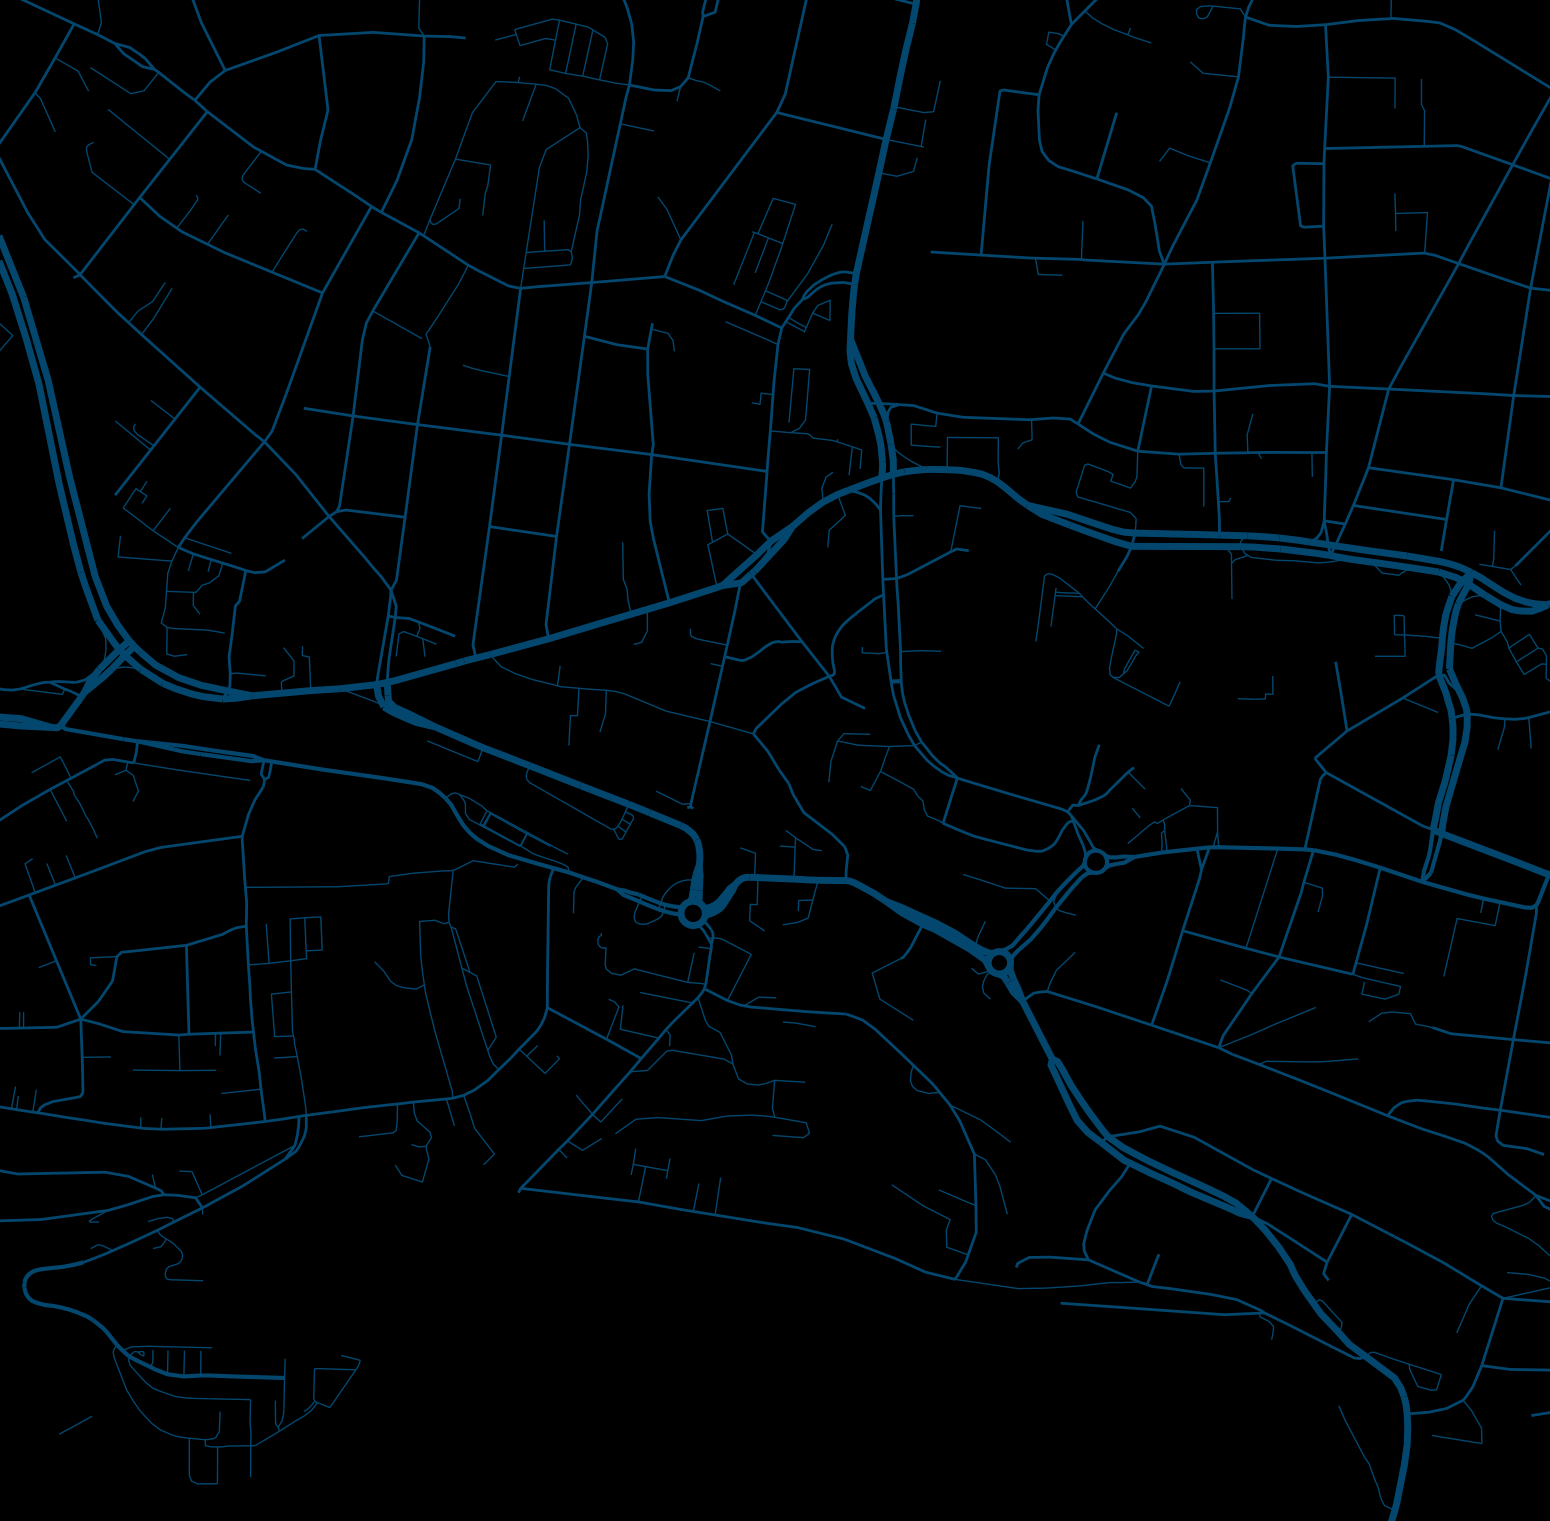
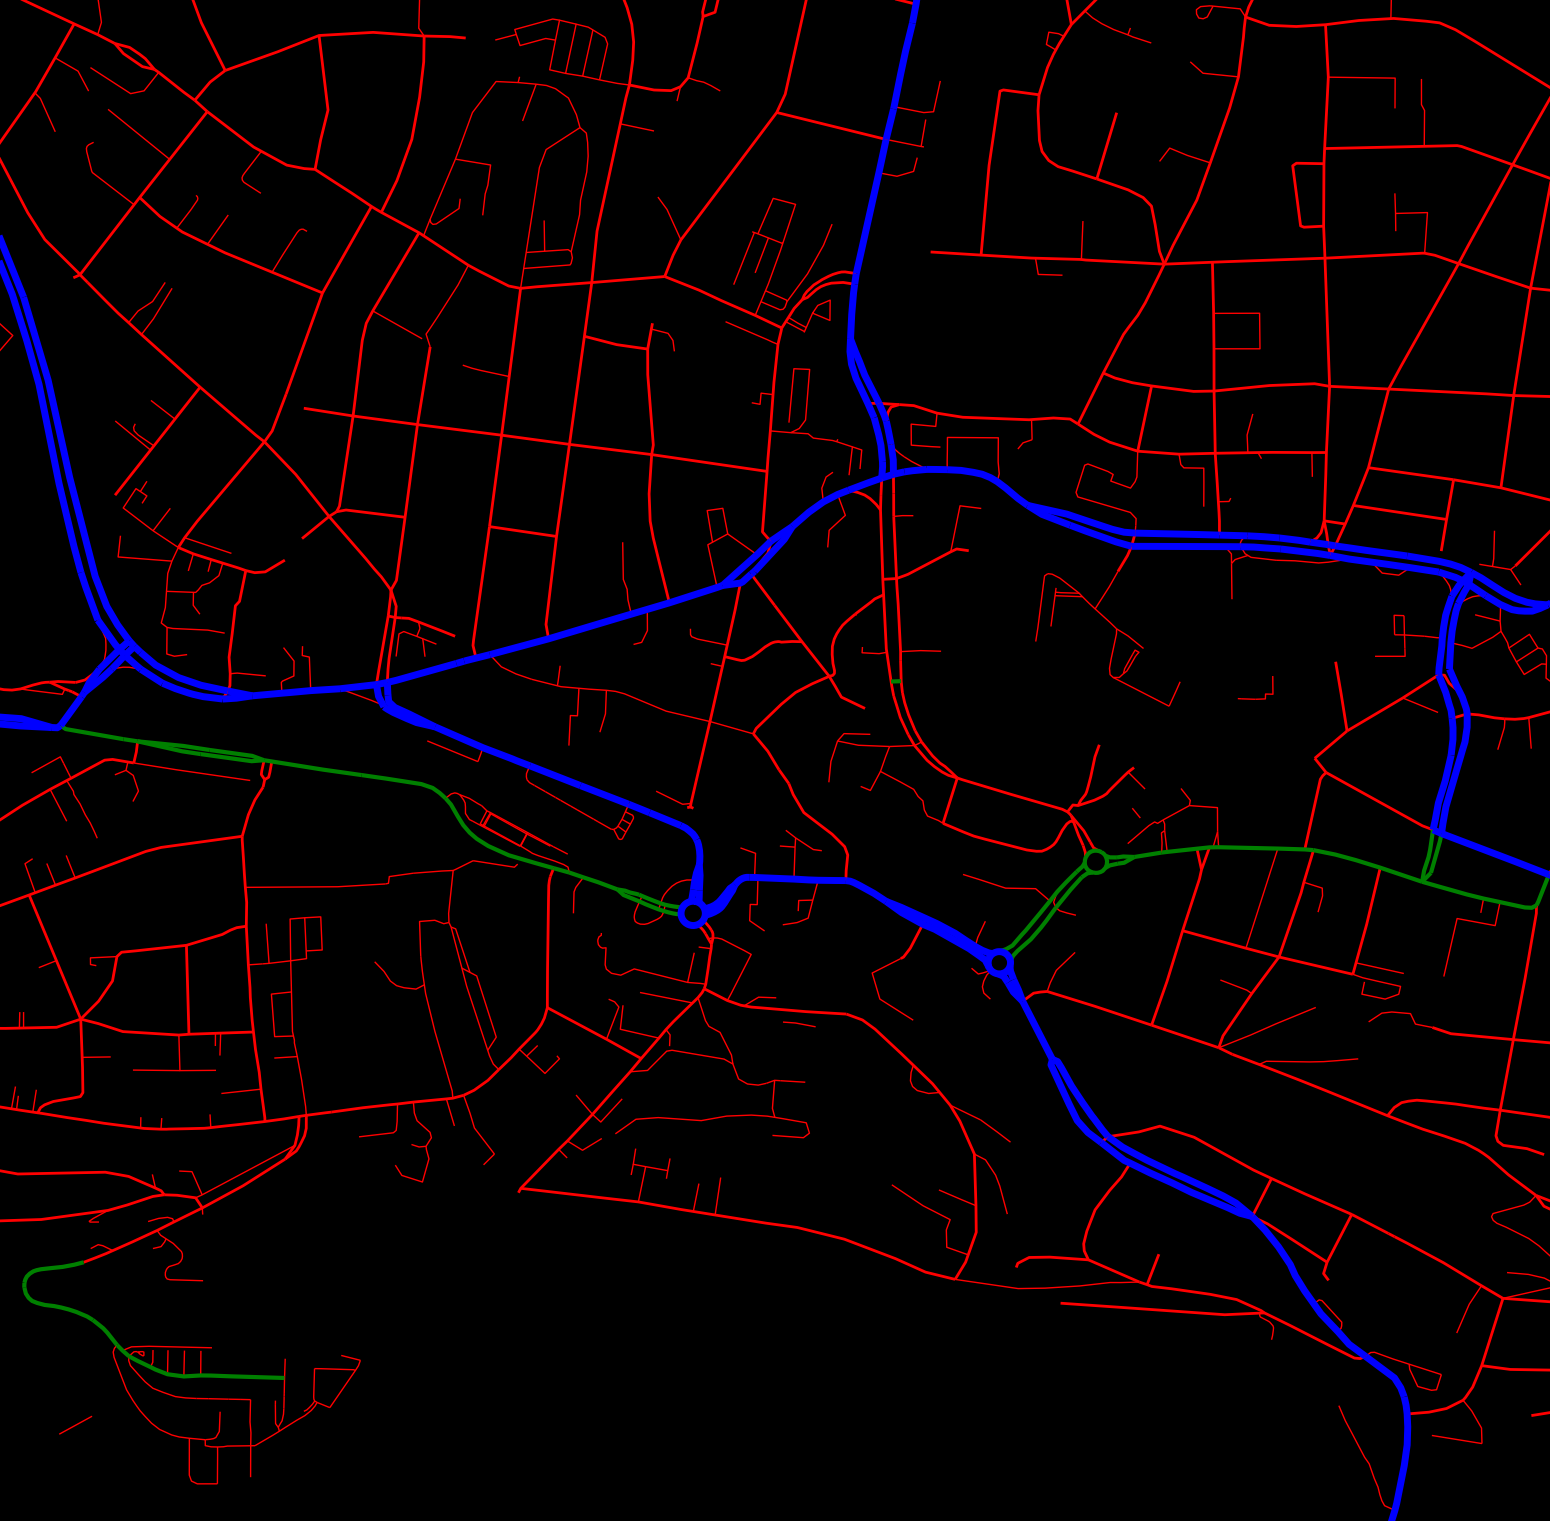
Adds images

diff --git a/PiScripts/Projection/generateImg/generateImages.py b/PiScripts/Projection/generateImg/generateImages.py
@@ -8,7 +8,7 @@ import cv2
 import matplotlib.pyplot as plt
 import pandas as pd
 
-CONFIG_FILE = 'configgrey.json'
+CONFIG_FILE = 'config3color.json'
 CONFIF_BOTH = True
 
 bbox=(51.38097,51.36682,7.70601,7.68292)
@@ -92,9 +92,9 @@ for i in t:
     print(i)
 
 #buildinggdf =gdf[gdf["geometry"].type.isin({"Polygon", "MultiPolygon"})]
-# buildinggdf =gdf[gdf["building"] == "yes"]
+buildinggdf =gdf[gdf["building"] == "yes"]
 # buildinggdf =gdf[gdf["landuse"] == "forest"]
-buildinggdf =gdf[gdf["landuse"].isin(["forest", "grass", "village_green", "farmland", "greenfield", "meadow"])]
+# buildinggdf =gdf[gdf["landuse"].isin(["forest", "grass", "village_green", "farmland", "greenfield", "meadow"])]
 
 ax = newgdf.plot(color=newgdf["street_color"], linewidth= newgdf["street_width"])
 # newgdfbus.plot(ax=ax, color=newgdfbus["street_color"], linewidth= newgdfbus["street_width"])
@@ -107,9 +107,9 @@ plt.savefig('image.png', facecolor="black", dpi=100, bbox_inches='tight',pad_inc
 
 
 if(CONFIF_BOTH):
-    buildinggdf.plot(ax=ax, color="green")
+    buildinggdf.plot(ax=ax, color="orange")
 else:
-    ax = buildinggdf.plot(color="green")
+    ax = buildinggdf.plot(color="orange")
 fig = ax.get_figure()
 fig.set_size_inches(20,20)
 ax.set_xlim([7.68292, 7.70601])
